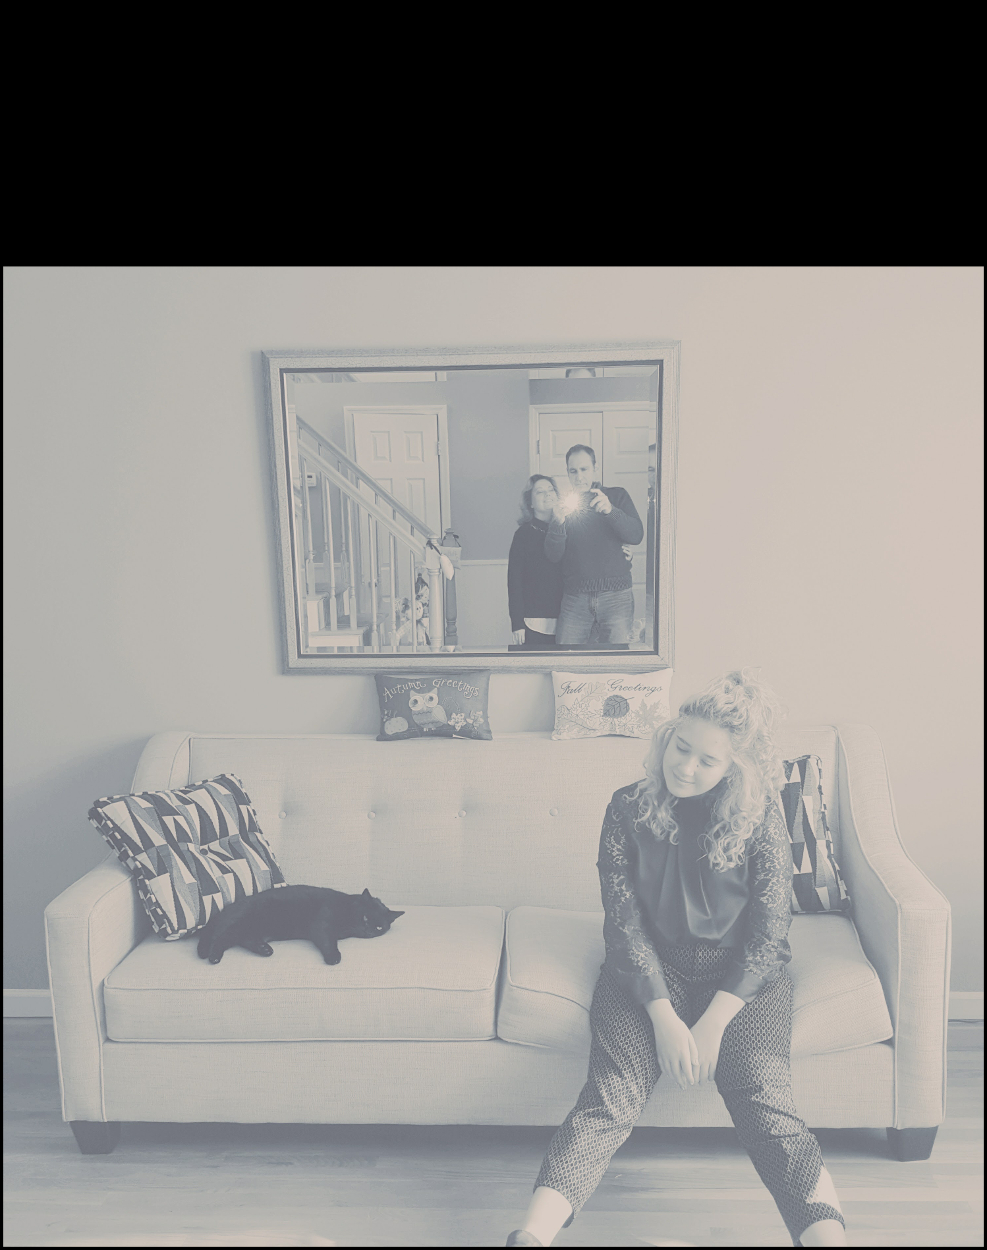
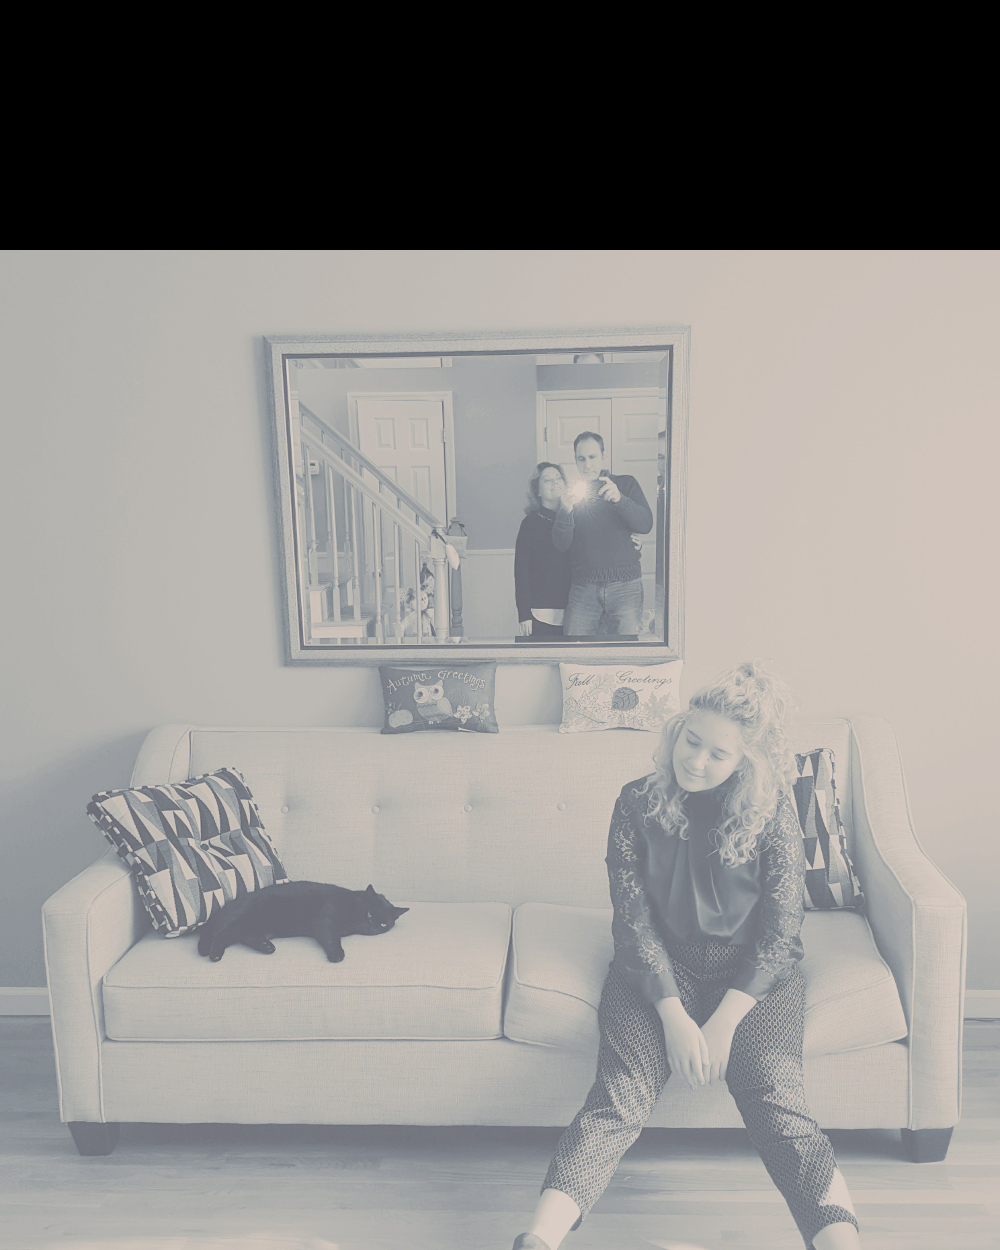
New version of family photo, full white space around girl and Mel (hands on chin), resized black space on one photo

diff --git a/settings.js b/settings.js
@@ -365,8 +365,8 @@ const image = {
 			"hasText": true,
 			"textOnRight": false,
 			"extraWide": false,
-			"extraTall": true,
-			"fullScreen": true,
+			"extraTall": false,
+			"fullScreen": false,
             "centered": true,
 			"hasCaption": false,
 			"captionID": "",
@@ -552,8 +552,8 @@ const image = {
             "centered": true,
 			"textOnRight": false,
 			"extraWide": false,
-			"extraTall": true,
-			"fullScreen": true,
+			"extraTall": false,
+			"fullScreen": false,
             "centered": true,
 			"hasCaption": false,
 			"captionID": "",

diff --git a/animate.js b/animate.js
@@ -62,7 +62,7 @@ function transitionCurtain()
    		image.curtainTop.offsetPosition -= curtainDriftOffset * 1.5;
    		image.curtainBottom.offsetPosition += curtainDriftOffset;	
 		//TODO: change that 40 to something relative to size of curtainTop
-		if (image.curtainTop.offsetPosition + canvas.curtain.height +70 < 0)
+		if (image.curtainTop.offsetPosition + canvas.curtain.height +100 < 0)
 		{
 			timer = 0;
 			animationStep++;
